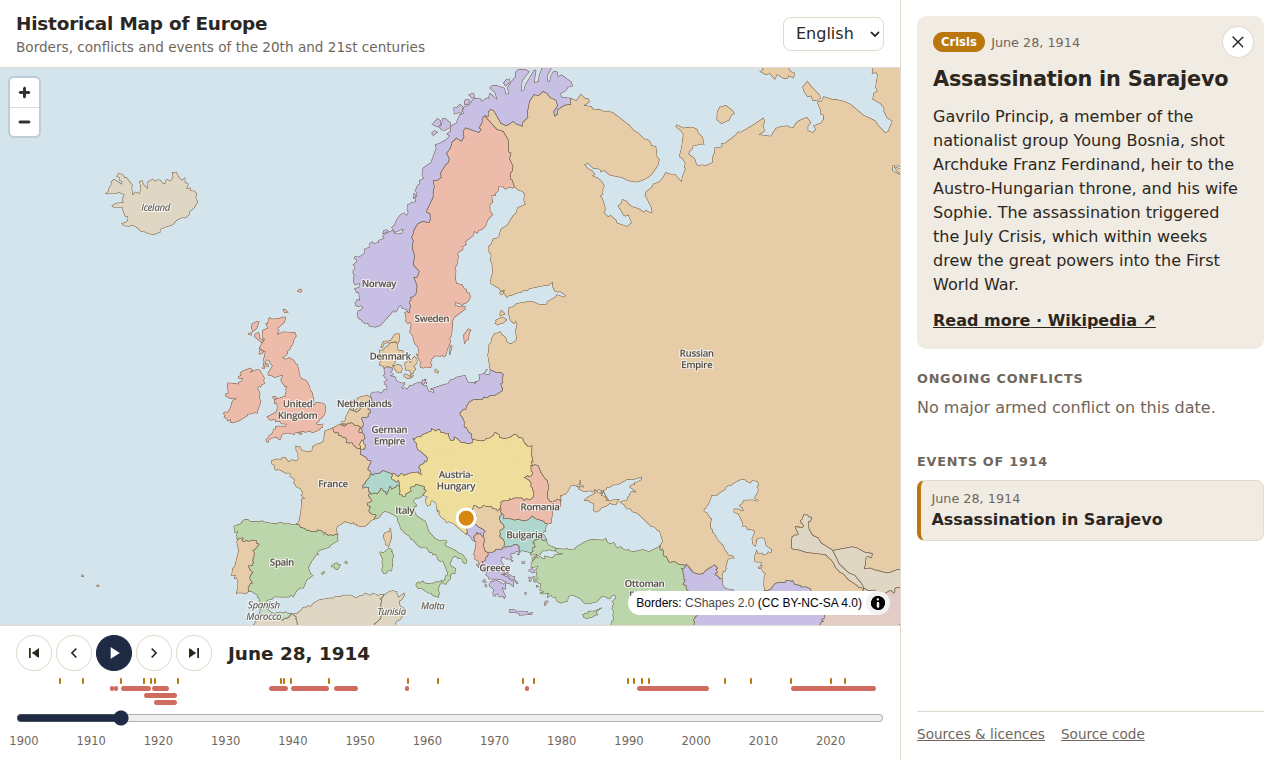
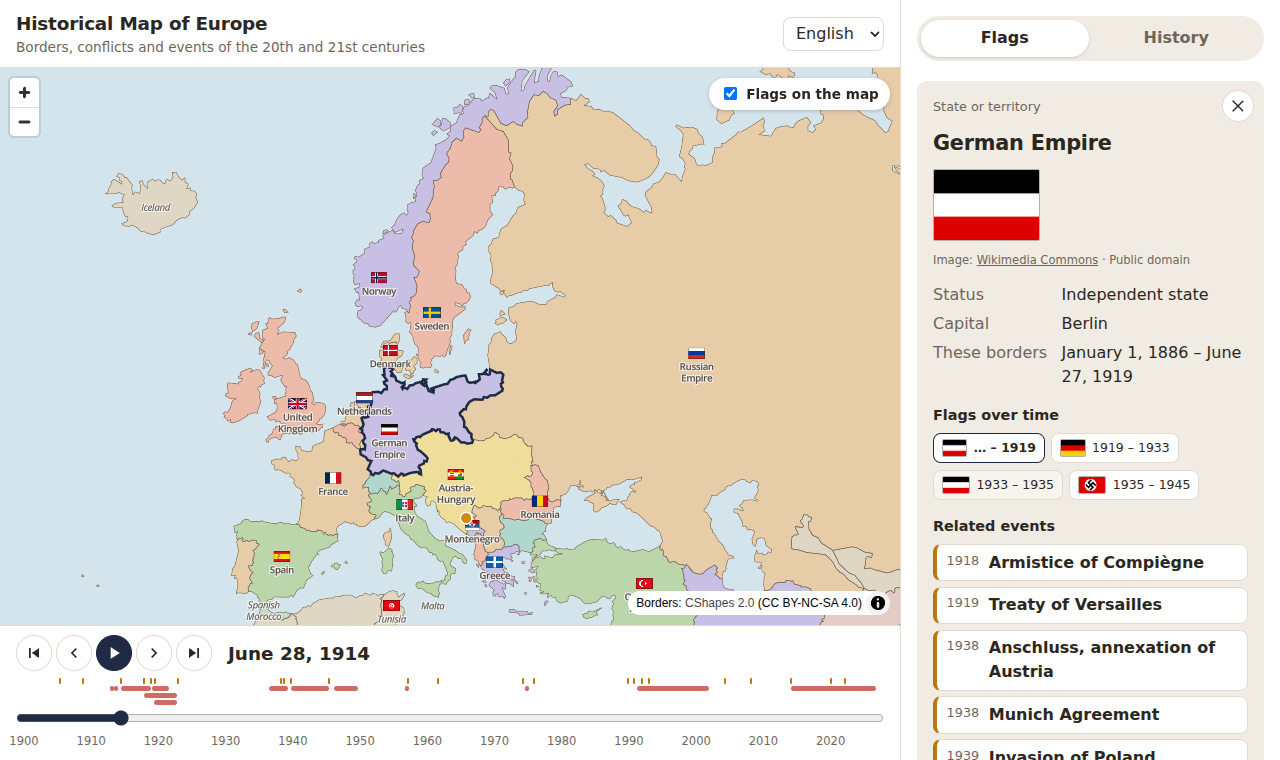
Show when a state's last flag stopped being used, refresh screenshot
The last flag of a state that no longer exists (e.g. Nazi Germany) now ends
when the state disappears from the map instead of reading "present".

Claude-Session: https://claude.ai/code/session_01CYWgTzH49wXj8P5vyBhVU8

diff --git a/src/components/Sidebar.tsx b/src/components/Sidebar.tsx
@@ -5,6 +5,7 @@ import type { Conflict, HistoricalEvent } from '../content/schema'
 import { useI18n } from '../i18n'
 import {
   MIN_DATE,
+  OPEN_END,
   formatDate,
   formatDateNumber,
   fromDateNumber,
@@ -250,14 +251,18 @@ function CountryDetail({
   const related = EVENTS.filter((e) => e.countries.includes(feature.gwcode))
   const current = flagOn(feature.gwcode, date)
   const history = flagHistory(feature.gwcode).filter((p) => p.flag !== undefined)
-  // Where to jump for a flag whose first day is unknown: when the state first appears.
-  const firstSeen = labels?.features
-    .filter((f) => f.properties.gwcode === feature.gwcode)
-    .reduce((min, f) => Math.min(min, f.properties.s), Infinity)
+  // When the state first and last appears on the map: bounds for flags with open-ended periods.
+  const spans = labels?.features.filter((f) => f.properties.gwcode === feature.gwcode) ?? []
+  const firstSeen = Math.min(...spans.map((f) => f.properties.s))
+  const lastSeen = Math.max(...spans.map((f) => f.properties.e))
   const firstDate =
-    firstSeen && firstSeen !== Infinity && fromDateNumber(firstSeen) > MIN_DATE
-      ? fromDateNumber(firstSeen)
-      : MIN_DATE
+    spans.length > 0 && fromDateNumber(firstSeen) > MIN_DATE ? fromDateNumber(firstSeen) : MIN_DATE
+  const endLabel = (until?: IsoDate) =>
+    until
+      ? yearOf(until)
+      : spans.length > 0 && lastSeen < OPEN_END
+        ? yearOf(fromDateNumber(lastSeen))
+        : t('present')
 
   return (
     <>
@@ -303,7 +308,7 @@ function CountryDetail({
                 >
                   <Flag id={p.flag} size="sm" label={name} />
                   <span>
-                    {p.from ? yearOf(p.from) : '…'} – {p.until ? yearOf(p.until) : t('present')}
+                    {p.from ? yearOf(p.from) : '…'} – {endLabel(p.until)}
                   </span>
                 </button>
               </li>
